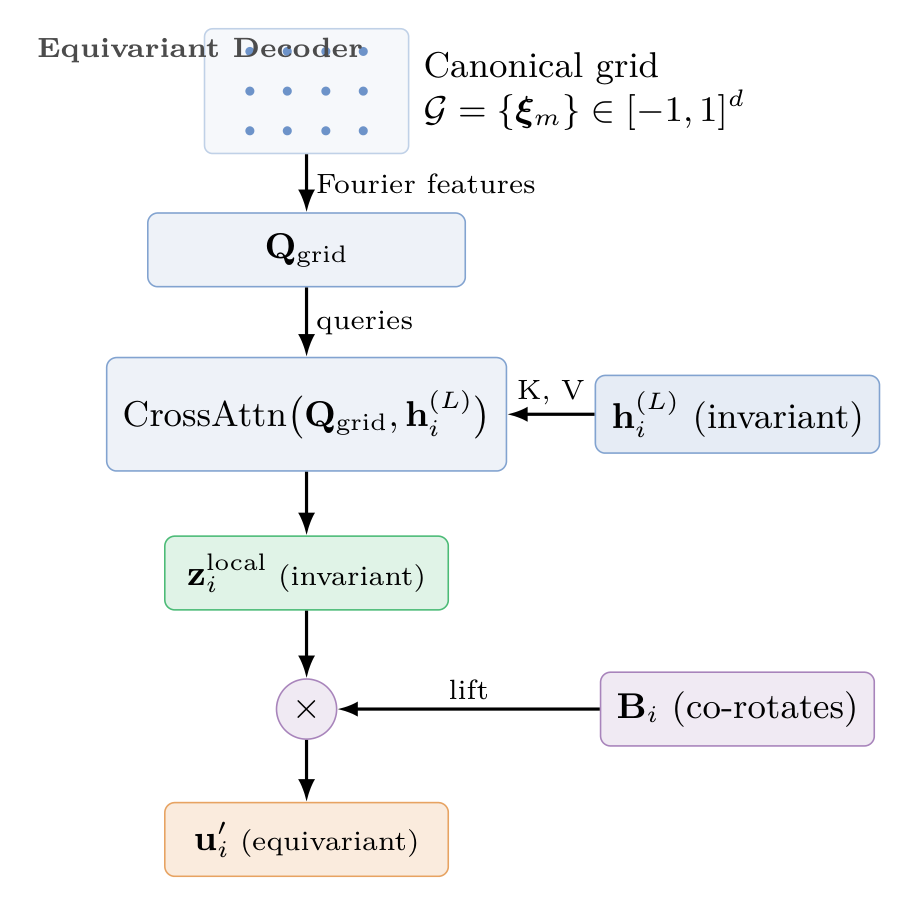
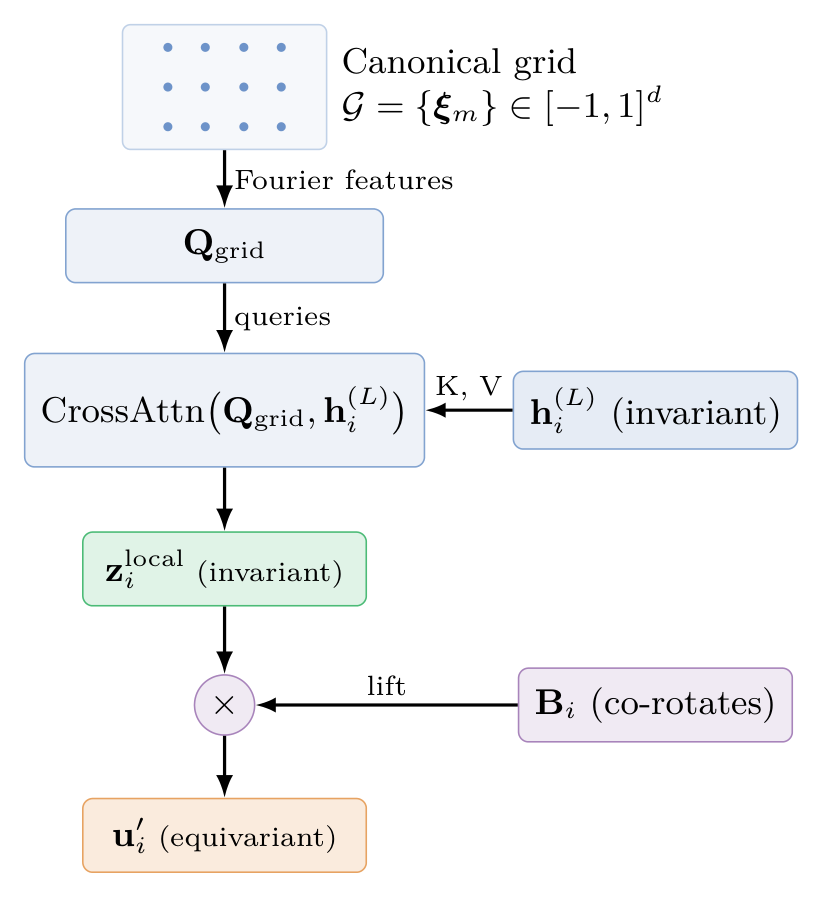
modify hte figuers

diff --git a/index.html b/index.html
@@ -12,7 +12,7 @@
   <link rel="stylesheet" href="./static/css/bulma-slider.min.css">
   <link rel="stylesheet" href="./static/css/fontawesome.all.min.css">
   <link rel="stylesheet" href="https://cdn.jsdelivr.net/gh/jpswalsh/academicons@1/css/academicons.min.css">
-  <link rel="stylesheet" href="./static/css/index.css?v=revit-3d-hero-4">
+  <link rel="stylesheet" href="./static/css/index.css?v=tikz-diagrams-1">
   <link rel="icon" href="./static/images/logo_mark_previous.svg">
   <script src="https://ajax.googleapis.com/ajax/libs/jquery/3.5.1/jquery.min.js"></script>
   <script defer src="./static/js/fontawesome.all.min.js"></script>
@@ -161,13 +161,23 @@
           <p>We consider a physical field \(\mathbf{f}: \Omega \rightarrow \mathcal{V}\) on a spatial domain \(\Omega \subset \mathbb{R}^d\). For a <em>vector field</em> \(\mathbf{u}\), the rotation group acts on both the domain and the value: \([L_g \mathbf{u}](x) = \mathbf{R}(g)\mathbf{u}(\mathbf{R}(g)^{-1}x)\). A neural network \(\Phi\) is <em>equivariant</em> if \(\Phi(L_g \mathbf{u}) = L_g \Phi(\mathbf{u})\). We identify <strong>three distinct mechanisms</strong> by which standard ViTs violate rotational equivariance:</p>
         </div>
 
-        <div class="challenge-item">
-          <strong>C1. The Tokenization Barrier.</strong>
-          Standard patch embeddings flatten the vector field within \(P_i\) into \(\mathbf{v} \in \mathbb{R}^{K^d \cdot d}\) and apply a learnable linear map \(\mathbf{E}\). Under rotation \(g\), pixels permute to \(\pi_g \mathbf{v}\), but \(\mathbf{E}(\pi_g \mathbf{v}) \neq \mathbf{E}(\mathbf{v})\)&mdash;projecting rotated patterns into disjoint latent regions.
+        <div class="challenge-item challenge-illustrated">
+          <div class="challenge-text">
+            <strong>C1. The Tokenization Barrier.</strong>
+            Standard patch embeddings flatten the vector field within \(P_i\) into \(\mathbf{v} \in \mathbb{R}^{K^d \cdot d}\) and apply a learnable linear map \(\mathbf{E}\). Under rotation \(g\), pixels permute to \(\pi_g \mathbf{v}\), but \(\mathbf{E}(\pi_g \mathbf{v}) \neq \mathbf{E}(\mathbf{v})\)&mdash;projecting rotated patterns into disjoint latent regions.
+          </div>
+          <div class="challenge-diagram">
+            <img src="./static/images/fig_c1.png" alt="C1: Tokenization barrier — flattening a rotated patch maps it to a different raster vector.">
+          </div>
         </div>
-        <div class="challenge-item">
-          <strong>C2. Loss of Spatial Equivariance.</strong>
-          Absolute PEs break equivariance since \(\mathbf{P}(\mathbf{R}(g)x) \neq \boldsymbol{\pi}_g \mathbf{P}(x)\). Relative PEs depend on \(\boldsymbol{\delta}_{ij} = x_j - x_i\), restoring translation equivariance, but an <em>isotropic</em> function like \(\|x_i - x_j\|\) discards all directional information.
+        <div class="challenge-item challenge-illustrated">
+          <div class="challenge-text">
+            <strong>C2. Loss of Spatial Equivariance.</strong>
+            Absolute PEs break equivariance since \(\mathbf{P}(\mathbf{R}(g)x) \neq \boldsymbol{\pi}_g \mathbf{P}(x)\). Relative PEs depend on \(\boldsymbol{\delta}_{ij} = x_j - x_i\), restoring translation equivariance, but an <em>isotropic</em> function like \(\|x_i - x_j\|\) discards all directional information.
+          </div>
+          <div class="challenge-diagram">
+            <img src="./static/images/fig_c2.png" alt="C2: PE dilemma — existing PEs are either directional or equivariant, never both.">
+          </div>
         </div>
         <div class="challenge-item">
           <strong>C3. The Representational Mismatch.</strong>
@@ -264,36 +274,77 @@
           </div>
         </div>
 
-        <div class="method-box">
-          <h4 class="title is-5" style="margin-bottom: 0.5rem;">1. Local Canonicalization</h4>
-          <p>For each patch \(P_i\), we compute a <em>Local Canonical Basis</em> \(\mathbf{B}_i \in SO(d)\) deterministically from the field values. Vectors are projected into local frames: \(\mathbf{u}^{\text{local}}_{i,k} = \mathbf{B}_i^T \mathbf{u}_k\). This is provably invariant:</p>
-          <div class="equation-highlight">
-            $$(\mathbf{R}(g)\mathbf{B}_i)^{T} (\mathbf{R}(g)\mathbf{u}_i^{\text{global}}) = \mathbf{B}_i^{T} \mathbf{R}(g)^{T} \mathbf{R}(g) \mathbf{u}_i^{\text{global}} = \mathbf{B}_i^{T} \mathbf{u}_i^{\text{global}} = \mathbf{u}^{\text{local}}_{i,k}$$
+        <div class="method-box-illustrated">
+          <div class="method-text">
+            <h4 class="title is-5" style="margin-bottom: 0.5rem;">1. Local Canonicalization <span style="color:#999;font-size:0.85rem;font-weight:400;">&mdash; solves C3</span></h4>
+            <p>For each patch \(P_i\), we compute a <em>Local Canonical Basis</em> \(\mathbf{B}_i \in SO(d)\) deterministically from the field values. Vectors are projected into local frames: \(\mathbf{u}^{\text{local}}_{i,k} = \mathbf{B}_i^T \mathbf{u}_k\). This is provably invariant:</p>
+            <div class="equation-highlight">
+              $$\begin{aligned}
+              (\mathbf{R}(g)\mathbf{B}_i)^{T} (\mathbf{R}(g)\mathbf{u}_i^{\text{global}})
+              &= \mathbf{B}_i^{T} \mathbf{R}(g)^{T} \mathbf{R}(g) \mathbf{u}_i^{\text{global}} \\
+              &= \mathbf{B}_i^{T} \mathbf{u}_i^{\text{global}} \\
+              &= \mathbf{u}^{\text{local}}_{i,k}
+              \end{aligned}$$
+            </div>
+            <p>In 3D, the basis is derived from the mean velocity \(\bar{\mathbf{u}}_i\) and mean vorticity \(\bar{\boldsymbol{\omega}}_i\), using stabilized analytical orthogonalization based on sequential cross-products.</p>
           </div>
-          <p>In 3D, the basis is derived from the mean velocity \(\bar{\mathbf{u}}_i\) and mean vorticity \(\bar{\boldsymbol{\omega}}_i\), using stabilized analytical orthogonalization based on sequential cross-products.</p>
-        </div>
-
-        <div class="method-box">
-          <h4 class="title is-5" style="margin-bottom: 0.5rem;">2. Invariant Patch Aggregation</h4>
-          <p>Instead of flattening patches (which breaks under rotation-induced permutations, C1), we treat the projected local vectors as a set of invariant features \(\mathcal{X}_i = \{\mathbf{h}_{i,k} \mid k \in P_i\}\) where \(\mathbf{h}_{i,k} = \text{MLP}(\mathbf{u}^{\text{local}}_{i,k})\). A Set-Transformer with a learnable query token aggregates them: \(\text{Agg}(\pi(\mathcal{X}_i)) = \text{Agg}(\mathcal{X}_i)\), ensuring rotation-invariant tokens.</p>
-        </div>
-
-        <div class="method-box">
-          <h4 class="title is-5" style="margin-bottom: 0.5rem;">3. Rebased Relative Positional Encoding</h4>
-          <p>We project displacement vectors into the query token's local basis: \(\mathbf{p}_{ij \to i} = \mathbf{B}_i^T(x_j - x_i)\). This is invariant to global rotations while preserving local anisotropy. The modified self-attention becomes:</p>
-          <div class="equation-highlight">
-            $$\text{SA}(\mathbf{X}) = \text{softmax}\left(\frac{\mathbf{X}\mathbf{W}_Q (\mathbf{X}\mathbf{W}_K)^T}{\sqrt{d_k}}+\mathbf{P}\right)\mathbf{X}\mathbf{W}_V$$
+          <div class="method-diagram">
+            <img src="./static/images/fig_sol3.png" alt="S3: Local canonical basis — project vectors via B_i^T from global to local frame.">
           </div>
         </div>
 
-        <div class="method-box">
-          <h4 class="title is-5" style="margin-bottom: 0.5rem;">4. Equivariant Decoder</h4>
-          <p>Local predictions are lifted back to global coordinates: \(\mathbf{u}'_{i} = \mathbf{B}_i \cdot \mathbf{z}^{\text{local}}_{i}\). Since \(\mathbf{z}^{\text{local}}\) is invariant and \(\mathbf{B}_i\) co-rotates with the input, the output is strictly equivariant.</p>
+        <div class="method-box-illustrated">
+          <div class="method-text">
+            <h4 class="title is-5" style="margin-bottom: 0.5rem;">2. Invariant Patch Aggregation <span style="color:#999;font-size:0.85rem;font-weight:400;">&mdash; solves C1</span></h4>
+            <p>Instead of flattening patches (which breaks under rotation-induced permutations, C1), we treat each patch as a <strong>permutation-invariant set</strong>:</p>
+            <p><strong>Step 1.</strong> Map each local vector through an MLP to obtain invariant features:</p>
+            <div class="equation-highlight">
+              $$\mathcal{X}_i = \{\mathbf{h}_{i,k} \mid k \in P_i\}, \quad \mathbf{h}_{i,k} = \text{MLP}(\mathbf{u}^{\text{local}}_{i,k})$$
+            </div>
+            <p><strong>Step 2.</strong> Aggregate with a Set-Transformer: concatenate a learnable query token \(\mathbf{h}_{\text{query}}\) with the set, apply self-attention, and extract the query output:</p>
+            <div class="equation-highlight">
+              $$\mathbf{H} = [\mathbf{h}_{\text{query}},\, \mathbf{h}_1, \dots, \mathbf{h}_{K^d}], \quad \mathbf{z}_i = \text{SA}(\mathbf{H})[0]$$
+            </div>
+            <p><strong>Result.</strong> The aggregation is strictly permutation-invariant&mdash;pixel ordering within the patch is irrelevant:</p>
+            <div class="equation-highlight">
+              $$\text{Agg}(\pi(\mathcal{X}_i)) = \text{Agg}(\mathcal{X}_i)$$
+            </div>
+          </div>
+          <div class="method-diagram">
+            <img src="./static/images/fig_sol1.png" alt="S1: Set-Transformer aggregation — patch vectors → MLP → set → query token → z_i.">
+          </div>
+        </div>
+
+        <div class="method-box-illustrated">
+          <div class="method-text">
+            <h4 class="title is-5" style="margin-bottom: 0.5rem;">3. Rebased Relative Positional Encoding <span style="color:#999;font-size:0.85rem;font-weight:400;">&mdash; solves C2</span></h4>
+            <p>We project displacement vectors into the query token's local basis: \(\mathbf{p}_{ij \to i} = \mathbf{B}_i^T(x_j - x_i)\). This is invariant to global rotations while preserving local anisotropy. The modified self-attention becomes:</p>
+            <div class="equation-highlight">
+              $$\text{SA}(\mathbf{X}) = \text{softmax}\left(\frac{\mathbf{X}\mathbf{W}_Q (\mathbf{X}\mathbf{W}_K)^T}{\sqrt{d_k}}+\mathbf{P}\right)\mathbf{X}\mathbf{W}_V$$
+            </div>
+          </div>
+          <div class="method-diagram">
+            <img src="./static/images/fig_sol2.png" alt="S2: Rebased PE — project displacement δ_ij into local basis B_i^T for directional yet equivariant encoding.">
+          </div>
+        </div>
+
+        <div class="method-box-illustrated">
+          <div class="method-text">
+            <h4 class="title is-5" style="margin-bottom: 0.5rem;">4. Equivariant Decoder</h4>
+            <p>The transformer outputs invariant tokens \(\mathbf{h}_i^{(L)}\). A local query decoder uses a canonical grid \(\mathcal{G} = \{\mathbf{\xi}_m \in [-1,1]^d\}\) mapped via Fourier features as spatial queries. Cross-attention reconstructs dense spatial details:</p>
+            <div class="equation-highlight">
+              $$\mathbf{z}^{\text{local}}_{i} = \text{CrossAttn}\left(\mathbf{Q}_{\text{grid}},\, \mathbf{h}_i^{(L)}\right)$$
+            </div>
+            <p>Predictions are lifted back to global coordinates: \(\mathbf{u}'_{i} = \mathbf{B}_i \cdot \mathbf{z}^{\text{local}}_{i}\). Since \(\mathbf{z}^{\text{local}}\) is invariant and \(\mathbf{B}_i\) co-rotates with the input, the output is strictly equivariant.</p>
+          </div>
+          <div class="method-diagram">
+            <img src="./static/images/fig_decoder.png" alt="Equivariant Decoder: canonical grid → Fourier features → CrossAttn → z^local (invariant) → B_i lift → u' (equivariant).">
+          </div>
         </div>
 
         <div class="method-box">
           <h4 class="title is-5" style="margin-bottom: 0.5rem;">5. Reference Basis Pyramid</h4>
-          <p>A pyramid of local canonical bases \(\mathcal{B}^{(l)} = \{\mathbf{B}_k^{(l)}\}\) is pre-computed at each resolution \(l\). Resolution changes use a <strong>&ldquo;globalize&ndash;resample&ndash;localize&rdquo;</strong> procedure, ensuring rotation-invariance across all scales.</p>
+          <p>A pyramid of local canonical bases \(\mathcal{B}^{(l)} = \{\mathbf{B}_k^{(l)}\}\) is pre-computed at each resolution \(l\) from the input field. Standard patch merging is invalid for invariant tokens (averaging vectors in disparate local bases breaks physical consistency). Resolution changes use a <strong>&ldquo;globalize&ndash;resample&ndash;localize&rdquo;</strong> procedure: features are projected back to the global frame, undergo valid spatial operations (pooling/interpolation), and are re-projected into the target resolution's local bases&mdash;ensuring rotation-invariance across all scales.</p>
         </div>
 
         <div class="shift-window-interactive" id="shift-window-demo">
